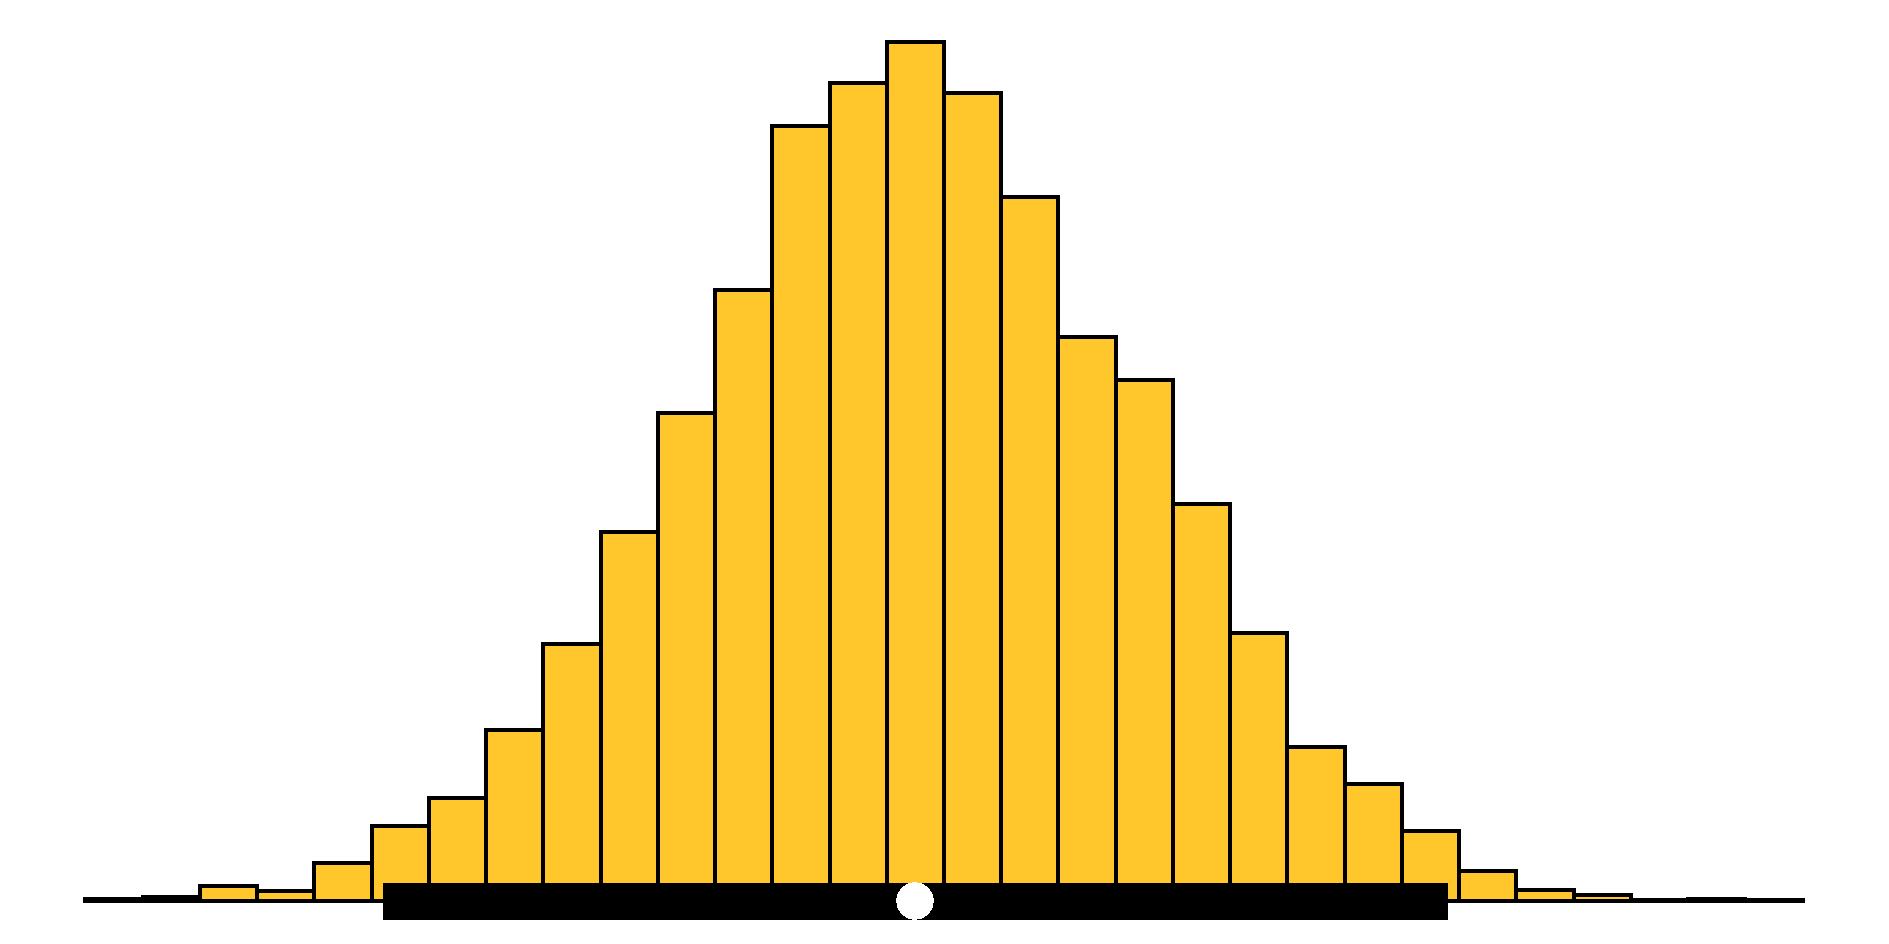
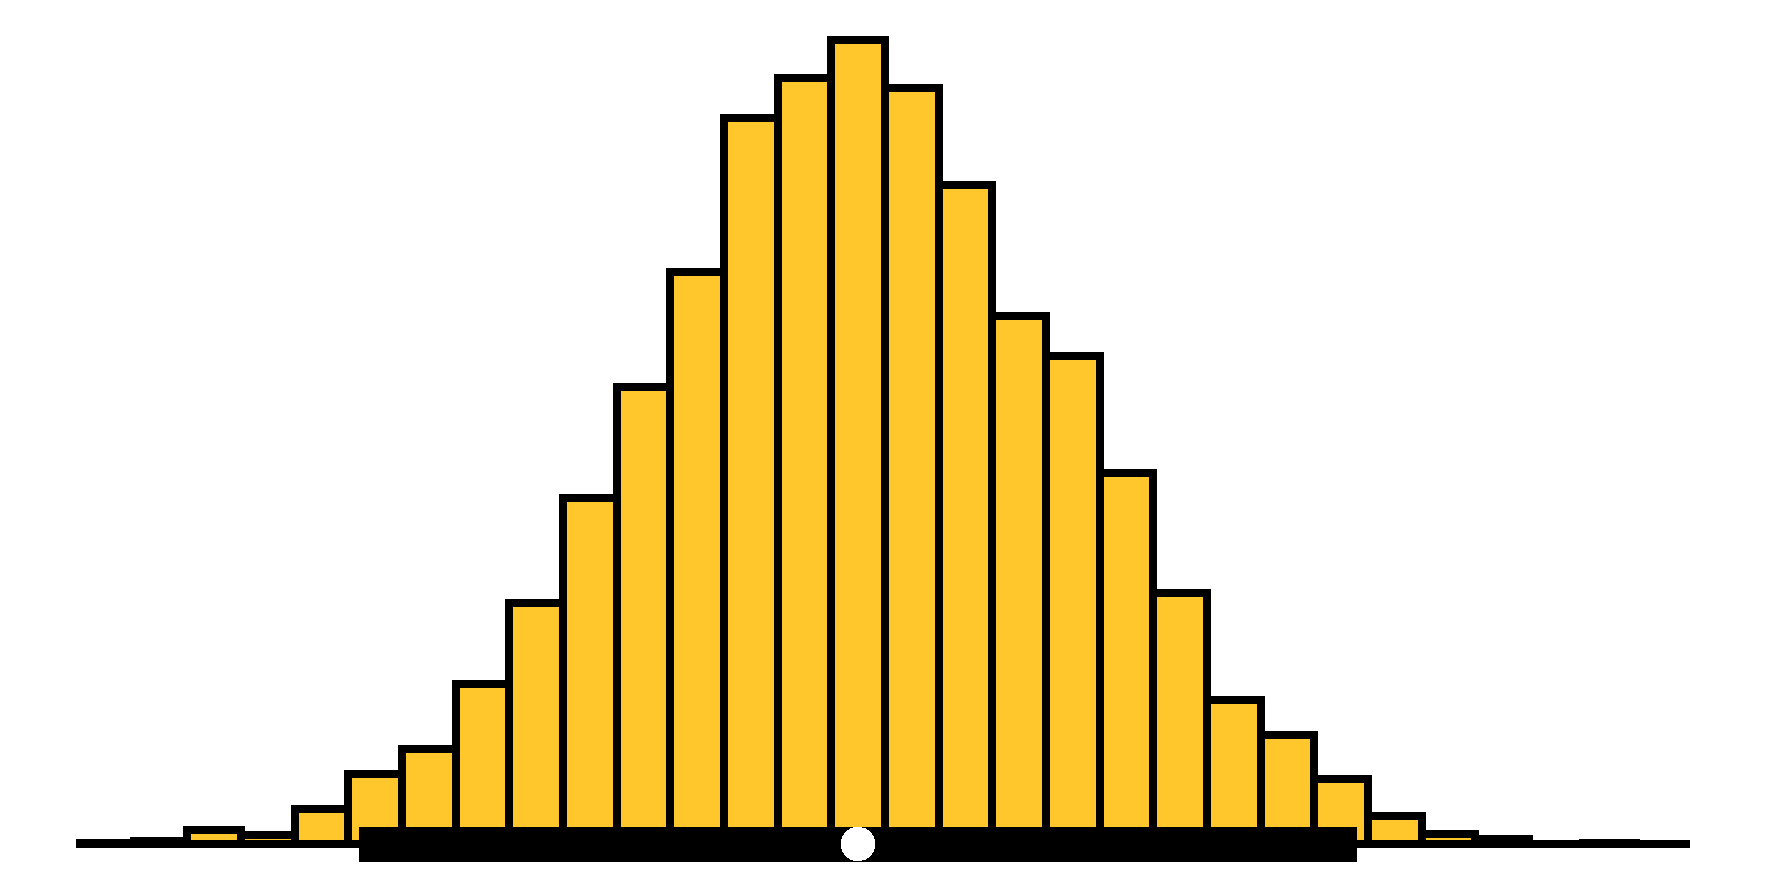
resize hex

diff --git a/README.md b/README.md
@@ -5,7 +5,9 @@
 
 <!-- hex sticker -->
 
-![](inst/figures/hex_sticker.png)
+<img src="inst/figures/hex_sticker.png" width = 250 />
+
+<!-- ![](inst/figures/hex_sticker.png) -->
 
 <!-- badges: start -->
 
